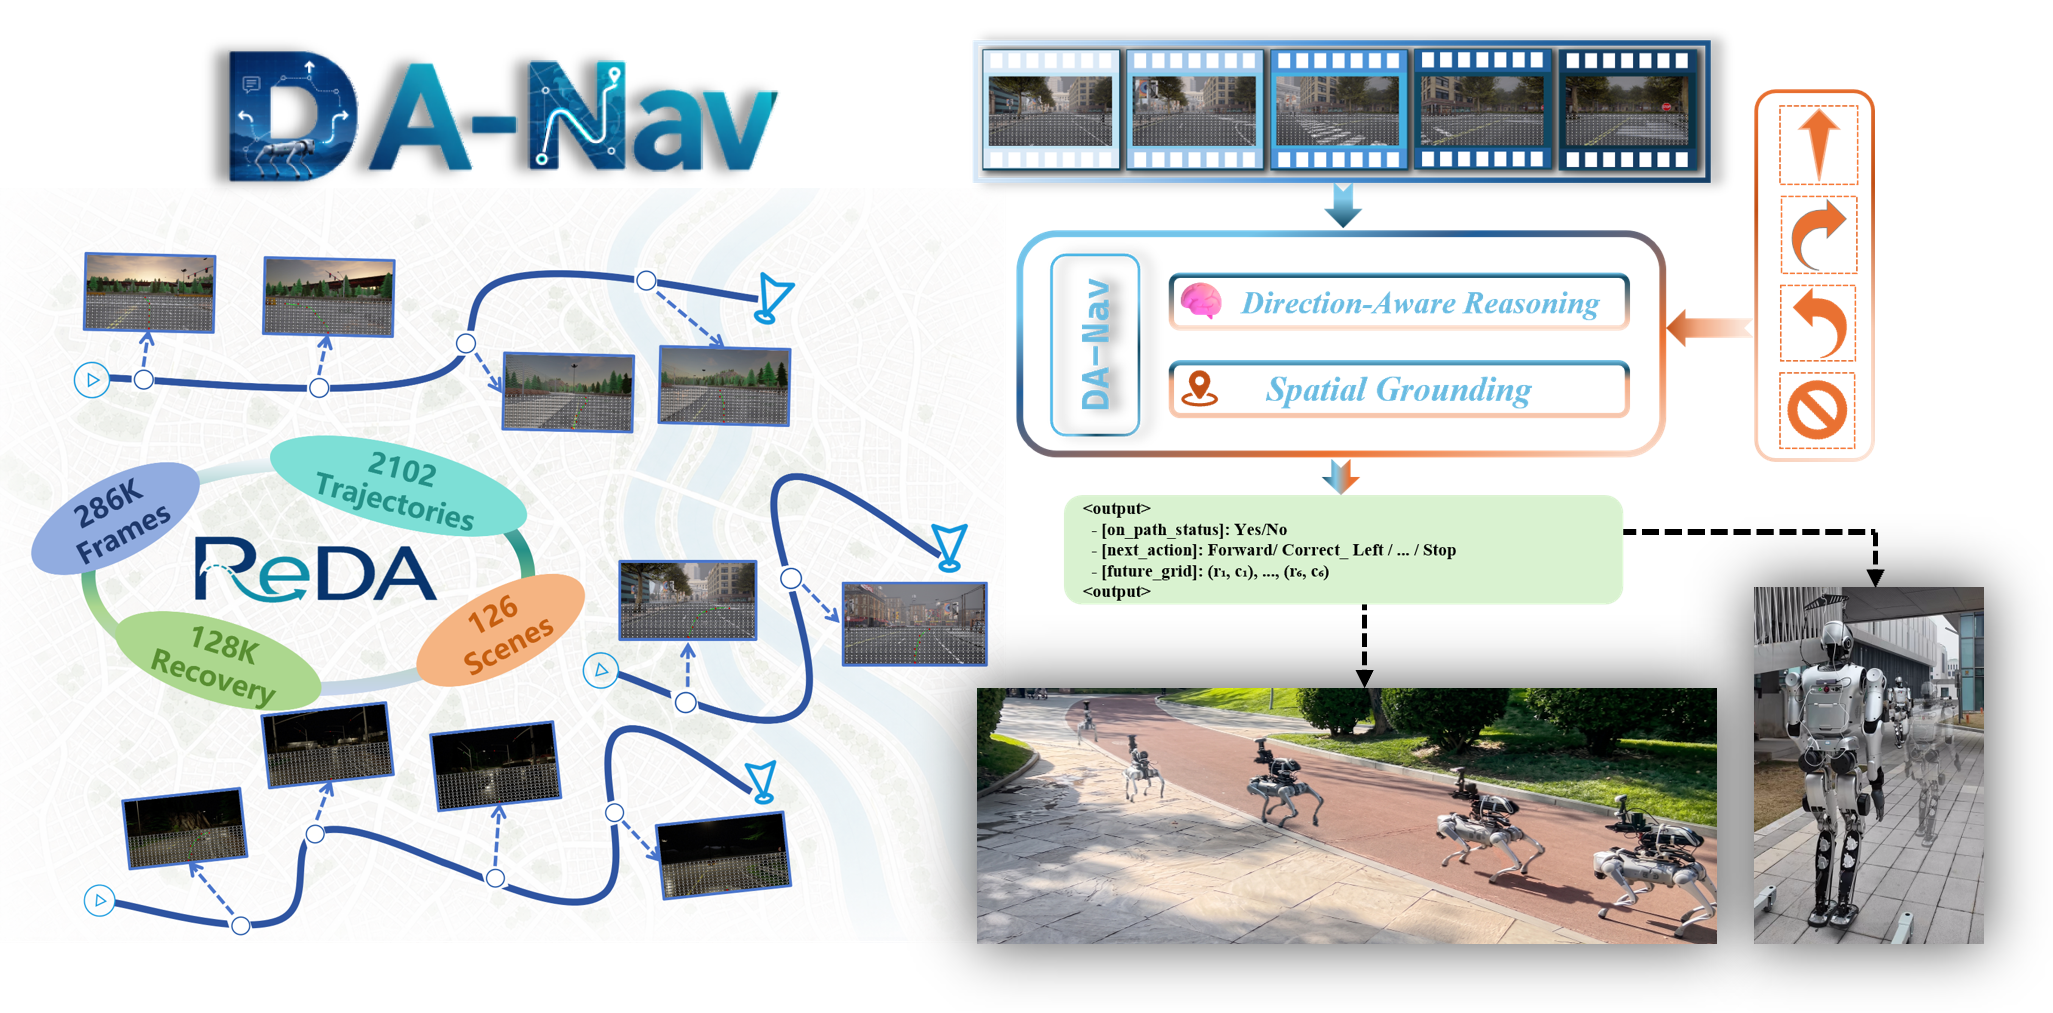
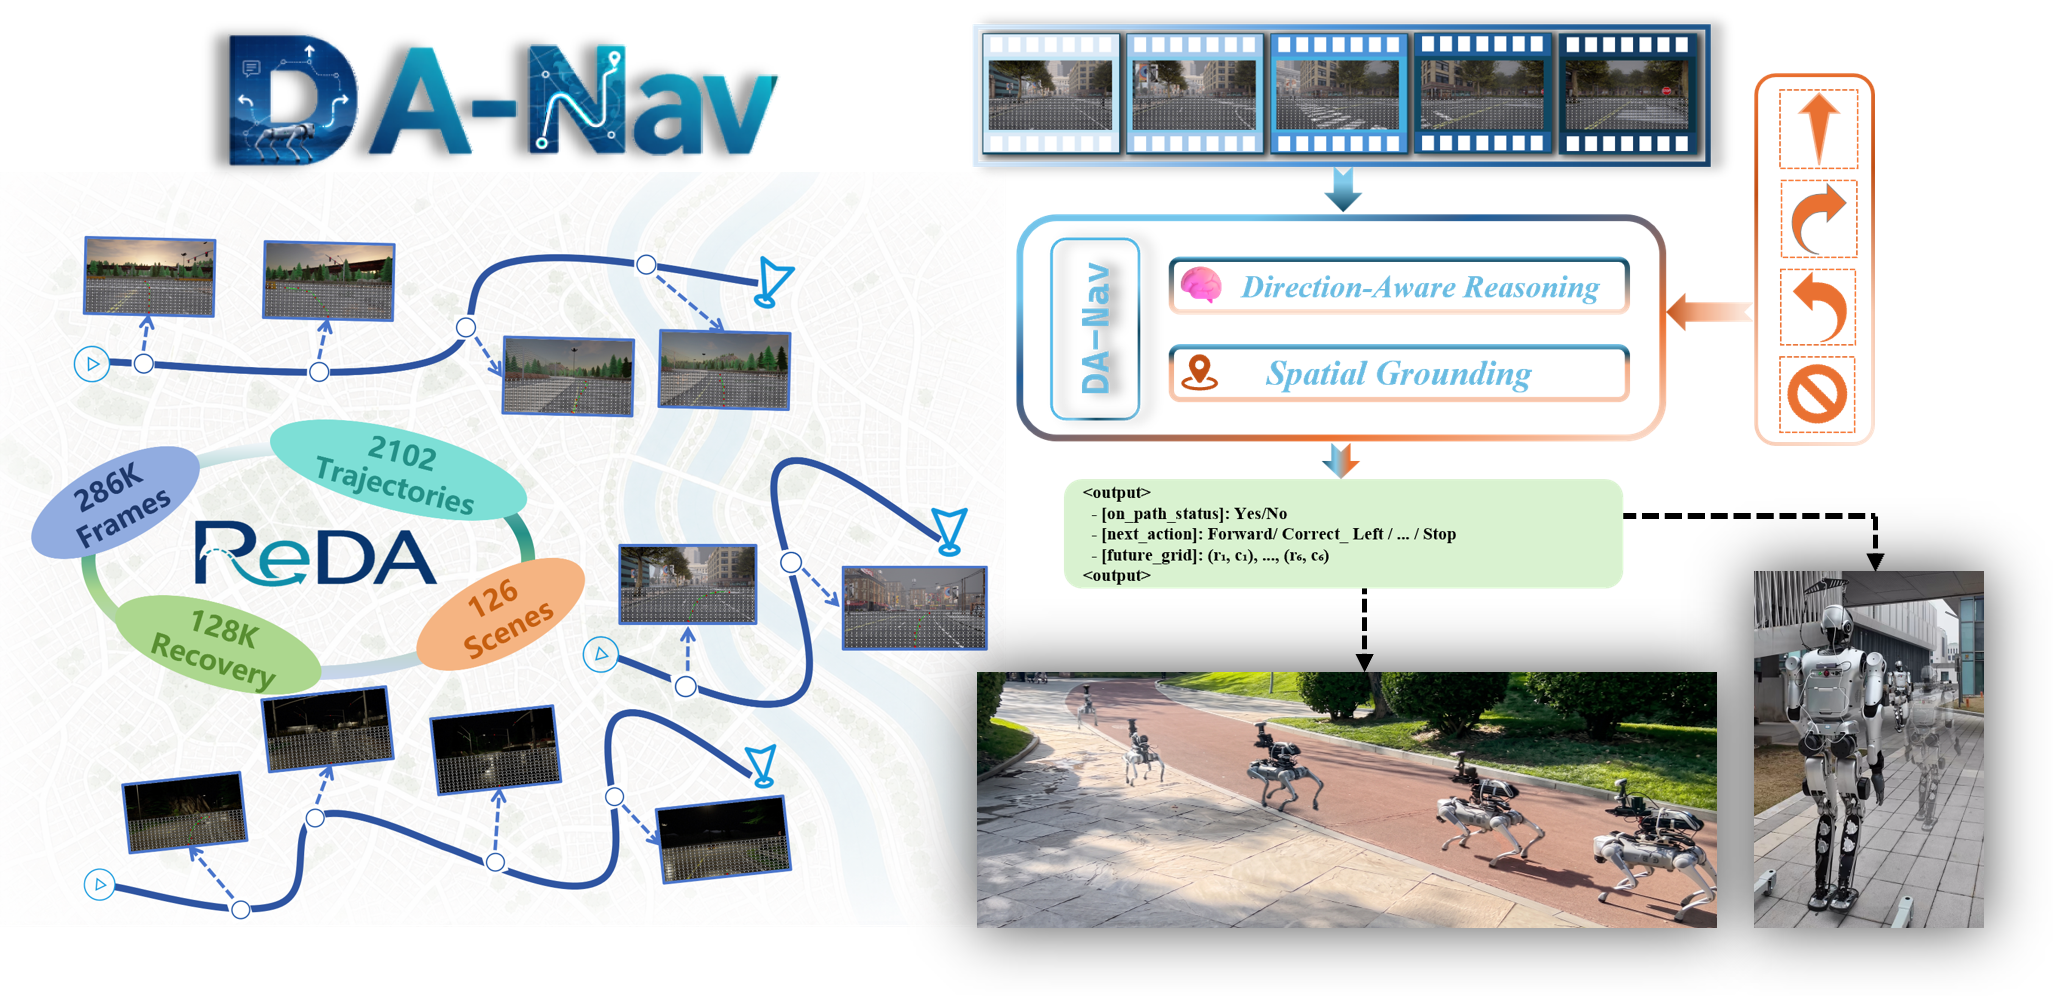
Add the ReDA dataset and model sections to the DA-Nav page.
The project page now explains the data and the policy before the real-world demos.

diff --git a/DA-Nav/index.html b/DA-Nav/index.html
@@ -12,15 +12,10 @@
   <link rel="preconnect" href="https://fonts.googleapis.com">
   <link rel="preconnect" href="https://fonts.gstatic.com" crossorigin>
   <link href="https://fonts.googleapis.com/css2?family=Source+Sans+3:wght@400;600;700&family=Source+Serif+4:opsz,wght@8..60,560;8..60,650&display=swap" rel="stylesheet">
-  <link rel="stylesheet" href="style.css?v=1">
+  <link rel="stylesheet" href="style.css?v=4">
 </head>
 <body>
   <main class="wrap">
-    <nav class="topnav">
-      <a href="https://xinqiangyu.github.io/">Xinqiang Yu</a>
-      <span>IEEE RA-L</span>
-    </nav>
-
     <header>
       <div class="badge">IEEE RA-L</div>
       <h1 class="title">DA-Nav</h1>
@@ -51,7 +46,6 @@
       </p>
       <div class="links">
         <a class="btn" href="https://arxiv.org/pdf/2607.11638" target="_blank" rel="noopener">Paper</a>
-        <a class="btn" href="DA-Nav.pdf">PDF</a>
         <a class="btn" href="#videos">Videos</a>
         <a class="btn" href="#bibtex">BibTeX</a>
       </div>
@@ -68,6 +62,71 @@
         City-scale outdoor navigation usually depends on dense maps or expensive, finely annotated trajectories. DA-Nav instead uses the sparse directions already produced by commercial navigation tools, such as “turn left in 50 meters.” The policy treats navigation as discrete spatial grounding on the egocentric image: a vision-language model first checks whether the robot has left the path, then chooses a corrective action, and finally selects a short sequence of grid targets. Trained on ReDA, which pairs direction-aware instructions with recovery trajectories, DA-Nav reaches 59.0% success in CARLA and keeps a 98.15% correction success rate. Without fine-tuning, it runs closed-loop on a Unitree Go2 and a Leju Kuavo humanoid for kilometer-scale routes outdoors.
         <div class="kws"><b>Keywords:</b> Vision-Language Navigation &middot; Trajectory Recovery &middot; Sim-to-Real</div>
       </div>
+    </section>
+
+    <section id="dataset">
+      <h2>ReDA Dataset</h2>
+      <p class="lead">A direction-aware training set: the same sparse instructions a phone map already gives, plus the recovery after the robot leaves the path.</p>
+      <div class="split">
+        <figure class="shot">
+          <img src="assets/reda.jpg?v=1" alt="ReDA routes over a city map, with egocentric frames, 286K frames, 2102 trajectories, 128K recovery samples, and 126 scenes">
+        </figure>
+        <div class="copy">
+          <p>ReDA is collected automatically in CARLA. A controller follows the expert route, then a steering perturbation pushes the robot aside. Once the lateral error passes 0.35 m, the logger records the way back and drops the unstable frames in between. Each kept frame carries a chain-of-thought label: whether the robot has left the path, which action corrects it, and the next six targets on the egocentric grid.</p>
+          <p>The instructions stay coarse on purpose: forward, turn left, turn right, or stop. That is what commercial navigation already outputs, and it is what the policy is trained to ground.</p>
+          <div class="stats compact">
+            <div class="stat"><b>126</b><span>scenes</span></div>
+            <div class="stat"><b>2,102</b><span>trajectories</span></div>
+            <div class="stat"><b>286K</b><span>frames, 158K expert</span></div>
+            <div class="stat"><b>128K</b><span>recovery frames</span></div>
+          </div>
+        </div>
+      </div>
+      <div class="table-wrap">
+        <table>
+          <thead>
+            <tr>
+              <th>Dataset</th>
+              <th>Instruction</th>
+              <th>Action space</th>
+              <th>Supervision</th>
+            </tr>
+          </thead>
+          <tbody>
+            <tr><td>Touchdown</td><td>Fine-grained language</td><td>Graph nodes</td><td>Expert only</td></tr>
+            <tr><td>CityWalker</td><td>Path-level</td><td>3D waypoints</td><td>Expert only</td></tr>
+            <tr><td>NaVid / NaVILA</td><td>Path-level / mixed</td><td>Discrete commands</td><td>Expert only</td></tr>
+            <tr class="ours"><td>ReDA (ours)</td><td class="best">Direction-based</td><td class="best">2D image grid</td><td class="best">Expert + recovery</td></tr>
+          </tbody>
+        </table>
+      </div>
+    </section>
+
+    <section id="method">
+      <h2>Method</h2>
+      <p class="lead">DA-Nav is a LoRA-finetuned Qwen2.5-VL-7B. It reads the recent view and a direction, then writes a short chain of thought as cells on the image.</p>
+      <figure class="shot">
+        <img src="assets/architecture.jpg?v=1" alt="DA-Nav architecture: frozen vision encoder and text embedder, Qwen2.5-VL-7B with LoRA, and a chain-of-thought output of state, action, and grid targets">
+        <figcaption>Two seconds of egocentric frames and a direction token. The vision encoder and text embedder stay frozen; LoRA adapts the backbone. The answer is a state, an action, and six grid cells.</figcaption>
+      </figure>
+      <div class="grid steps">
+        <div class="card">
+          <h3><span class="num">1</span> Deviation</h3>
+          <p>First the model says whether the robot is still on the reference path: yes or no.</p>
+        </div>
+        <div class="card">
+          <h3><span class="num">2</span> Action</h3>
+          <p>Then it picks a command: forward, turn left or right, correct left or right, or stop.</p>
+        </div>
+        <div class="card">
+          <h3><span class="num">3</span> Grid targets</h3>
+          <p>Last, it selects six cells for the next three seconds, sampled at 2 Hz on the image plane.</p>
+        </div>
+      </div>
+      <figure class="shot">
+        <img src="assets/grounding.jpg?v=1" alt="Egocentric image grid with predicted trajectory cells, and the same targets lifted into the robot body frame">
+        <figcaption>The ground in front of the robot is a grid, rows 13–23 and columns 0–28. Red cells are the predicted targets. They are lifted into the body frame and tracked by a furthest-point controller, so the slower model step does not twitch the steering.</figcaption>
+      </figure>
     </section>
 
     <section id="videos">

diff --git a/DA-Nav/style.css b/DA-Nav/style.css
@@ -31,17 +31,6 @@ a:hover { text-decoration: underline; }
   padding: 36px 22px 72px;
 }
 
-.topnav {
-  display: flex;
-  justify-content: space-between;
-  align-items: center;
-  margin-bottom: 28px;
-  font-size: 14.5px;
-  color: var(--muted);
-}
-
-.topnav a { font-weight: 600; }
-
 header { text-align: center; }
 
 .badge {
@@ -114,7 +103,7 @@ h1.title {
   width: 100%;
   border: 1px solid var(--line);
   border-radius: 12px;
-  background: #0e141b;
+  background: #fff;
   display: block;
 }
 
@@ -122,6 +111,68 @@ h1.title {
   color: var(--muted);
   font-size: 14.5px;
   margin: 10px 0 0;
+}
+
+.split {
+  display: grid;
+  grid-template-columns: 1.15fr 0.85fr;
+  gap: 22px;
+  align-items: start;
+}
+
+#dataset .lead,
+#method .lead {
+  max-width: none;
+}
+
+.copy p {
+  margin: 0 0 14px;
+}
+
+.shot {
+  margin: 16px 0 0;
+  background: #fff;
+  border: 1px solid var(--line);
+  border-radius: 12px;
+  padding: 12px;
+}
+
+.split .shot { margin: 0; }
+
+.shot img {
+  width: 100%;
+  height: auto;
+  display: block;
+  border-radius: 8px;
+  background: #fff;
+}
+
+.shot figcaption {
+  color: var(--muted);
+  font-size: 14.5px;
+  margin: 10px 2px 2px;
+  line-height: 1.5;
+}
+
+.stats.compact {
+  grid-template-columns: 1fr 1fr;
+  margin: 0;
+}
+
+.shot + .grid { margin-top: 14px; }
+
+.num {
+  display: inline-grid;
+  place-items: center;
+  width: 22px;
+  height: 22px;
+  margin-right: 6px;
+  border-radius: 50%;
+  background: var(--accent);
+  color: #fff;
+  font-size: 12px;
+  font-weight: 700;
+  vertical-align: 1px;
 }
 
 section { margin-top: 48px; }
@@ -266,7 +317,7 @@ footer {
 }
 
 @media (max-width: 860px) {
-  .videos, .grid { grid-template-columns: 1fr; }
+  .videos, .grid, .split { grid-template-columns: 1fr; }
   .stage { height: auto; }
   .stage video { width: 100%; max-height: 70vh; }
   .stats { grid-template-columns: 1fr 1fr; }
